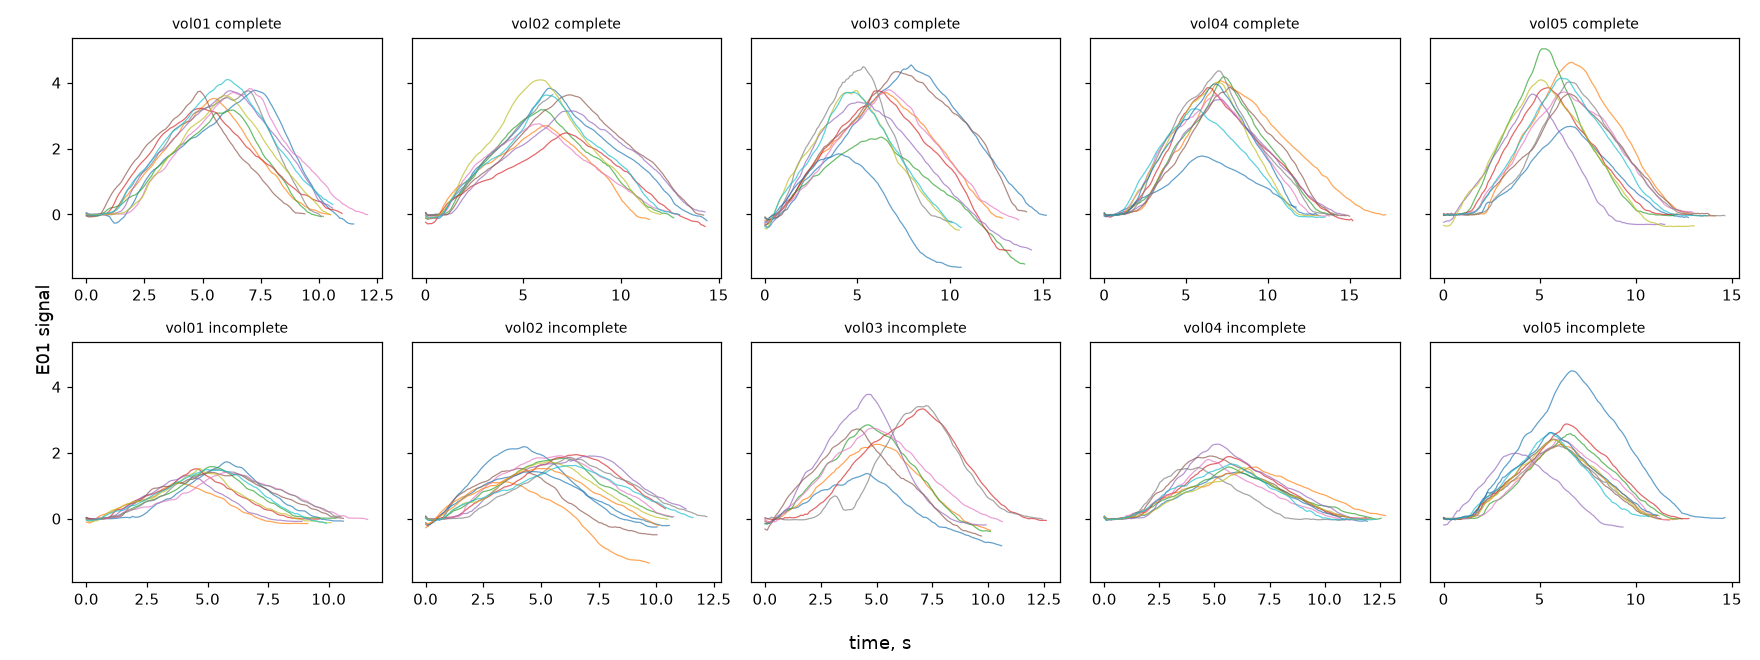
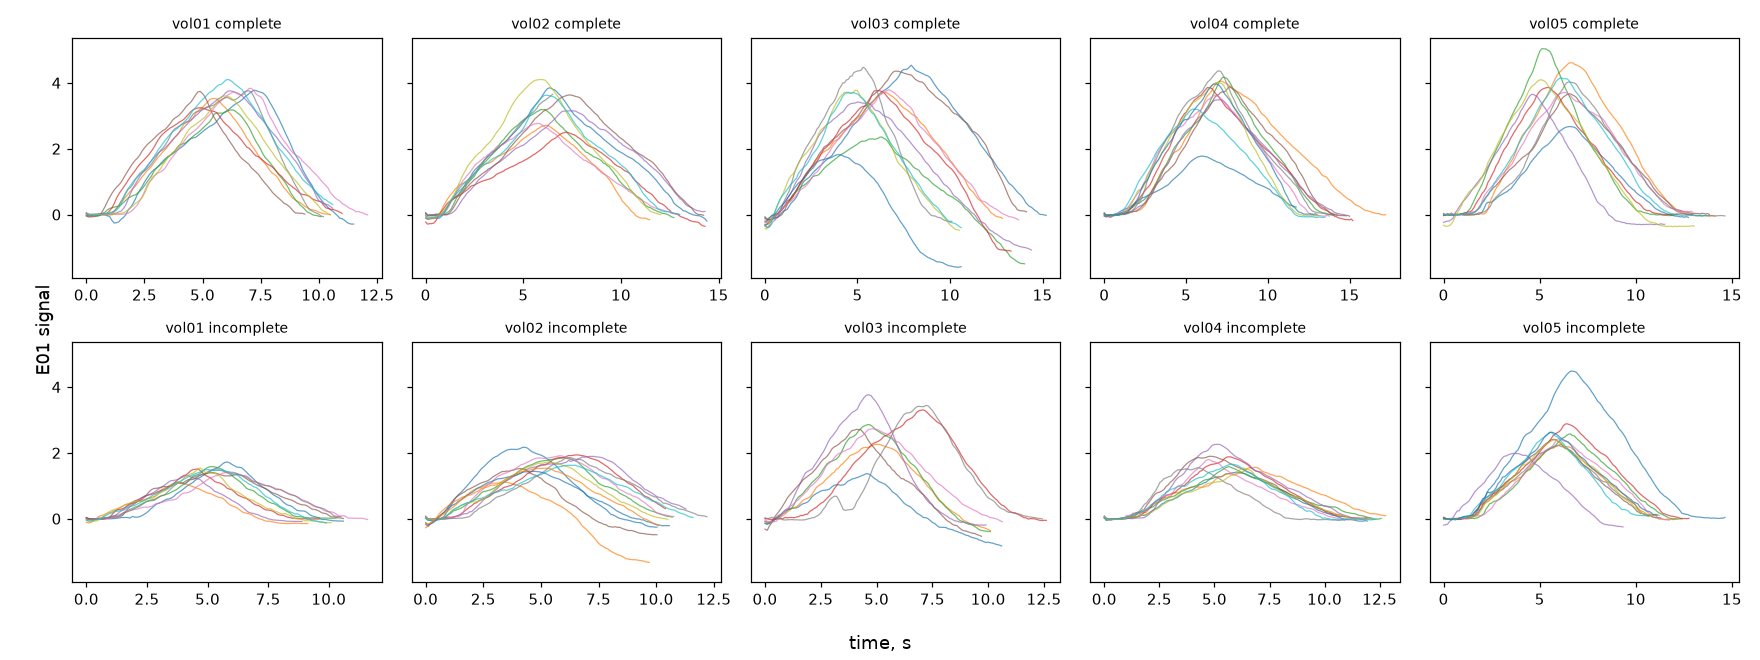
Модуль E03 и общий скрипт обучения упражнений

diff --git a/ml-training/train_exercise.py b/ml-training/train_exercise.py
@@ -1,0 +1,178 @@
+import argparse
+import csv
+import importlib
+import json
+import platform
+from datetime import datetime, timezone
+from pathlib import Path
+
+import joblib
+import numpy as np
+import sklearn
+from sklearn.dummy import DummyClassifier
+from sklearn.ensemble import GradientBoostingClassifier, RandomForestClassifier
+from sklearn.impute import SimpleImputer
+from sklearn.linear_model import LogisticRegression
+from sklearn.pipeline import Pipeline
+from sklearn.svm import SVC
+from sklearn.calibration import CalibratedClassifierCV
+
+from seriq_engine.classifier import CONFIDENCE_THRESHOLD, MAX_GAP_S, MIN_DETECTED_SHARE, MIN_VALID_POINTS, signal_quality
+from seriq_engine.features import FEATURE_NAMES, feature_vector
+from seriq_engine.hand import HandTrack
+from train import ThresholdRule, loso_predict, main_model, scaled, summarize, with_uncertain
+
+ROOT = Path(__file__).resolve().parents[1]
+RAW = ROOT / "data/raw/An upper limb stroke rehabilitation exercise video/Exercise"
+PROCESSED = ROOT / "data/processed"
+RESULTS = ROOT / "ml-training/results"
+LABELS = {"Complete": "complete", "Incomplete": "incomplete"}
+MAIN = "main_logreg_2f_calibrated"
+MAIN_FEATURES = ["extension_range", "end_minus_start"]
+
+EXERCISES = {
+    "E03": {"folder": "3_Lifting the Wrist", "train": {"02", "03", "04", "05", "06"}, "test": "10", "train_videos": 101, "version": "e03-logreg2-1"},
+    "E01": {"folder": "1_Lifting an Object", "train": {"01", "02", "03", "04", "05"}, "test": "07", "train_videos": 103, "version": "e01-logreg2-1"},
+}
+
+
+# list_videos — видео упражнения из одной части (Train/Test): класс из папки, доброволец из имени файла
+def list_videos(exercise: str, split: str) -> list[dict]:
+    rows = []
+    for folder, label in LABELS.items():
+        for path in sorted((RAW / EXERCISES[exercise]["folder"] / folder / split.capitalize()).glob("*.mp4")):
+            rows.append({"video_id": f"{path.stem}_{folder}", "path": path, "volunteer": path.name[:2], "label": label})
+    return rows
+
+
+# cache_dir — кэш точек кисти: train общий с recon.py, test отдельно
+def cache_dir(exercise: str, split: str) -> Path:
+    suffix = "" if split == "train" else "_test"
+    return PROCESSED / f"poses_{exercise.lower()}{suffix}"
+
+
+# load_rows — ряд сигнала, признаки и качество сигнала по кэшу точек
+def load_rows(exercise: str, split: str) -> list[dict]:
+    module = importlib.import_module(f"seriq_engine.exercises.{exercise.lower()}")
+    rows = list_videos(exercise, split)
+    for r in rows:
+        data = np.load(cache_dir(exercise, split) / f"{r['video_id']}.npz")
+        track = HandTrack(points=data["points"], times=data["times"], info=None, frame_size=(0, 0))
+        fps = float(data["sample_fps"])
+        series = module.signal(track)
+        r["series"], r["fps"], r["hand_share"] = series, fps, float(track.detected.mean())
+        r["features"], r["quality"], r["measure"] = module.features(series, fps), signal_quality(series, fps), module.measure(series)
+    return rows
+
+
+# load_train — только train-добровольцы упражнения, тестовый доброволец не читается
+def load_train(exercise: str) -> tuple[list[dict], np.ndarray, np.ndarray]:
+    rows = load_rows(exercise, "train")
+    assert {r["volunteer"] for r in rows} == EXERCISES[exercise]["train"], "unexpected volunteers in train"
+    assert len(rows) == EXERCISES[exercise]["train_videos"], "unexpected number of train videos"
+    y = np.array([1 if r["label"] == "complete" else 0 for r in rows])
+    return rows, y, np.array([r["volunteer"] for r in rows])
+
+
+# models — baseline A и B, основная модель и кандидаты для сравнения
+def models() -> dict:
+    threshold = lambda g: Pipeline([("impute", SimpleImputer(strategy="median")), ("rule", ThresholdRule())])
+    return {
+        "baseline_A_majority": (["extension_range"], lambda g: DummyClassifier(strategy="most_frequent"), "baseline"),
+        "baseline_B_threshold_extension": (["extension_range"], threshold, "baseline"),
+        MAIN: (MAIN_FEATURES, main_model, "main"),
+        "threshold_end_minus_start": (["end_minus_start"], threshold, "comparison"),
+        "logreg_extension_only": (["extension_range"], lambda g: scaled(LogisticRegression(class_weight="balanced")), "comparison"),
+        "logreg_9f": (FEATURE_NAMES, lambda g: scaled(LogisticRegression(class_weight="balanced", max_iter=1000)), "comparison"),
+        "random_forest_9f": (FEATURE_NAMES, lambda g: scaled(RandomForestClassifier(n_estimators=300, min_samples_leaf=2, class_weight="balanced", random_state=0)), "comparison"),
+        "svm_rbf_9f": (FEATURE_NAMES, lambda g: scaled(CalibratedClassifierCV(SVC(kernel="rbf", class_weight="balanced"), ensemble=False)), "comparison"),
+    }
+
+
+# quality_ranges — крайние значения качества сигнала и признаков по классам на train
+def quality_ranges(rows: list[dict]) -> dict:
+    out = {
+        "detected_share_min": min(r["quality"].detected_share for r in rows),
+        "longest_gap_s_max": max(r["quality"].longest_gap_s for r in rows),
+        "valid_points_min": min(r["quality"].valid_points for r in rows),
+    }
+    for lab in ("complete", "incomplete"):
+        for name in ("extension_range", "end_minus_start"):
+            vals = [r["features"][name] for r in rows if r["label"] == lab]
+            out[f"{name}_{lab}"] = [round(min(vals), 2), round(max(vals), 2)]
+    return out
+
+
+# print_table — краткая таблица LOSO-CV в консоль
+def print_table(exercise: str, report: dict, y: np.ndarray) -> None:
+    print(f"{exercise} LOSO-CV: {len(y)} videos ({y.sum()} complete, {len(y) - y.sum()} incomplete)\n")
+    print(f"{'model':<32} {'BA all':>7} {'BA mean±std':>13} {'F1m all':>8}  confusion [[c→c, c→i], [i→c, i→i]]")
+    for name, r in report["models"].items():
+        a = r["all"]
+        print(f"{name:<32} {a['balanced_accuracy']:>7.3f} {r['balanced_accuracy_mean']:>6.3f}±{r['balanced_accuracy_std']:.3f} {a['f1_macro']:>8.3f}  {a['confusion_matrix']['values']}")
+    u = report["models"][MAIN]["uncertain"]
+    c = u["confident_only"]
+    print(f"\n{MAIN} with uncertain: coverage {u['coverage']:.3f} (signal {u['uncertain_by_signal_quality']}, confidence {u['uncertain_by_confidence']}), "
+          f"confident BA {c['balanced_accuracy']}, F1m {c['f1_macro']:.3f}, confusion {c['confusion_matrix']['values']}")
+    print("ranges on train:", json.dumps(report["train_ranges"]))
+
+
+# save_model — обучает основную модель на всех train и сохраняет её с параметрами в models/
+def save_model(exercise: str, rows: list[dict], y: np.ndarray, groups: np.ndarray, report: dict) -> Path:
+    cfg = EXERCISES[exercise]
+    X = np.array([feature_vector(r["features"], MAIN_FEATURES) for r in rows])
+    bundle = {
+        "model": main_model(groups).fit(X, y),
+        "exercise": exercise,
+        "features": MAIN_FEATURES,
+        "confidence_threshold": CONFIDENCE_THRESHOLD,
+        "signal_quality": {"min_detected_share": MIN_DETECTED_SHARE, "max_gap_s": MAX_GAP_S, "min_valid_points": MIN_VALID_POINTS},
+        "model_version": cfg["version"],
+        "trained_at": datetime.now(timezone.utc).isoformat(timespec="seconds"),
+        "train_volunteers": sorted(cfg["train"]),
+        "train_videos": int(len(y)),
+        "sklearn_version": sklearn.__version__,
+        "numpy_version": np.__version__,
+        "python_version": platform.python_version(),
+        "loso": {k: report["models"][MAIN][k] for k in ("balanced_accuracy_mean", "balanced_accuracy_std")},
+    }
+    path = ROOT / f"models/{exercise.lower()}_classifier.joblib"
+    joblib.dump(bundle, path)
+    print(f"\nsaved {path.relative_to(ROOT)}: {cfg['version']}, sklearn {sklearn.__version__}")
+    return path
+
+
+# main — LOSO-CV всех моделей по train упражнения, правило uncertain, сохранение результатов и модели
+def main() -> None:
+    parser = argparse.ArgumentParser()
+    parser.add_argument("exercise", choices=sorted(EXERCISES))
+    parser.add_argument("--no-save", action="store_true", help="only print LOSO-CV, do not write the model")
+    args = parser.parse_args()
+    ex = args.exercise.lower()
+
+    rows, y, groups = load_train(args.exercise)
+    report = {"exercise": args.exercise, "models": {}, "train_ranges": quality_ranges(rows)}
+    oof = {}
+    for name, (names, factory, role) in models().items():
+        X = np.array([feature_vector(r["features"], names) for r in rows])
+        oof[name] = loso_predict(factory, X, y, groups)
+        report["models"][name] = summarize(y, oof[name], groups) | {"role": role, "features": names}
+    report["models"][MAIN]["uncertain"], main_labels = with_uncertain(rows, y, oof[MAIN])
+    print_table(args.exercise, report, y)
+    if args.no_save:
+        return
+
+    RESULTS.mkdir(parents=True, exist_ok=True)
+    (RESULTS / f"{ex}_loso_metrics.json").write_text(json.dumps(report, indent=2) + "\n")
+    with (RESULTS / f"{ex}_loso_oof_predictions.csv").open("w", newline="") as f:
+        writer = csv.writer(f)
+        writer.writerow(["video_id", "volunteer", "label", "detected_share", "longest_gap_s", "measure", *MAIN_FEATURES, *[f"p_complete_{n}" for n in oof], "main_decision"])
+        for i, r in enumerate(rows):
+            q = r["quality"]
+            writer.writerow([r["video_id"], r["volunteer"], r["label"], f"{q.detected_share:.3f}", f"{q.longest_gap_s:.2f}", r["measure"],
+                             *[f"{r['features'][n]:.2f}" for n in MAIN_FEATURES], *[f"{oof[n][i]:.4f}" for n in oof], main_labels[i]])
+    save_model(args.exercise, rows, y, groups, report)
+
+
+if __name__ == "__main__":
+    main()

diff --git a/ai-engine/tests/test_e03.py b/ai-engine/tests/test_e03.py
@@ -1,0 +1,52 @@
+import numpy as np
+import pytest
+
+from seriq_engine.exercises import e03
+from seriq_engine.hand import HandTrack
+
+
+# make_track — синтетическая кисть: запястье на месте, середина ладони поворачивается вверх на lift градусов
+def make_track(lift: np.ndarray, start_deg: float = -20.0, hand_len: float = 50.0, mirror: bool = False) -> HandTrack:
+    points = np.zeros((len(lift), 21, 2))
+    angle = np.radians(start_deg + lift)
+    points[:, 0] = [300.0, 400.0]
+    points[:, 9, 0] = 300.0 + hand_len * np.cos(angle)
+    points[:, 9, 1] = 400.0 - hand_len * np.sin(angle)
+    if mirror:
+        points[..., 0] = 640.0 - points[..., 0]
+    return HandTrack(points=points, times=np.arange(len(lift)) / 10.0, info=None, frame_size=(640, 480))
+
+
+# test_lift_and_hold — подъём на 90° и удержание: сигнал растёт до 90, measure около 90
+def test_lift_and_hold():
+    lift = np.r_[np.zeros(10), np.linspace(0, 90, 60), np.full(30, 90.0)]
+    series = e03.signal(make_track(lift))
+    assert e03.measure(series) == pytest.approx(90, abs=1)
+    f = e03.features(series, 10)
+    assert f["end_minus_start"] == pytest.approx(90, abs=1)
+
+
+# test_mirrored_side — рука с другой стороны кадра даёт тот же сигнал, подъём остаётся положительным
+def test_mirrored_side():
+    lift = np.r_[np.zeros(10), np.linspace(0, 50, 40), np.linspace(50, 0, 40)]
+    a = e03.signal(make_track(lift))
+    b = e03.signal(make_track(lift, mirror=True))
+    assert np.nanmax(b) == pytest.approx(50, abs=1)
+    assert b == pytest.approx(a, abs=1e-6)
+
+
+# test_scale_and_start_invariance — размер кисти в кадре и начальный наклон не меняют сигнал
+def test_scale_and_start_invariance():
+    lift = np.r_[np.zeros(10), np.linspace(0, 70, 50)]
+    a = e03.signal(make_track(lift, start_deg=-40.0, hand_len=30.0))
+    b = e03.signal(make_track(lift, start_deg=-5.0, hand_len=120.0))
+    assert b == pytest.approx(a, abs=1e-6)
+
+
+# test_no_hand — без кисти сигнал пустой, measure None
+def test_no_hand():
+    track = make_track(np.zeros(30))
+    track.points[:] = np.nan
+    series = e03.signal(track)
+    assert np.all(np.isnan(series))
+    assert e03.measure(series) is None

diff --git a/ai-engine/seriq_engine/exercises/e03.py b/ai-engine/seriq_engine/exercises/e03.py
@@ -1,0 +1,40 @@
+import numpy as np
+
+from seriq_engine.angles import fill_gaps, smooth
+from seriq_engine.features import compute_features
+from seriq_engine.hand import MIDDLE_MCP, WRIST, HandTrack
+from seriq_engine.video import VideoInfo
+
+EXERCISE = "E03"
+MEASURE = {"name": "wrist_lift", "unit": "deg"}
+START_SHARE = 0.1
+
+
+# raw_lift — поворот вектора запястье → середина ладони от начального направления, градусы, вверх положительно
+def raw_lift(points: np.ndarray) -> np.ndarray:
+    vec = points[:, MIDDLE_MCP] - points[:, WRIST]
+    valid = np.flatnonzero(~np.isnan(vec[:, 0]))
+    if len(valid) == 0:
+        return np.full(len(points), np.nan)
+    first = valid[: max(1, int(round(len(valid) * START_SHARE)))]
+    dx = vec[:, 0] if np.median(vec[first, 0]) >= 0 else -vec[:, 0]
+    angle = np.full(len(points), np.nan)
+    angle[valid] = np.degrees(np.unwrap(np.arctan2(-vec[valid, 1], dx[valid])))
+    return angle - angle[first].mean()
+
+
+# signal — ряд подъёма кисти: расчёт, заполнение коротких пропусков, сглаживание
+def signal(track: HandTrack, info: VideoInfo | None = None) -> np.ndarray:
+    return smooth(fill_gaps(raw_lift(track.points)))
+
+
+# features — относительные признаки цикла, те же формулы, что у E02
+def features(series: np.ndarray, fps: float) -> dict[str, float]:
+    return compute_features(series, fps)
+
+
+# measure — максимальный подъём кисти от начала, градусы; None, если сигнала нет
+def measure(series: np.ndarray) -> float | None:
+    if np.all(np.isnan(series)):
+        return None
+    return round(float(np.nanmax(series)), 1)
